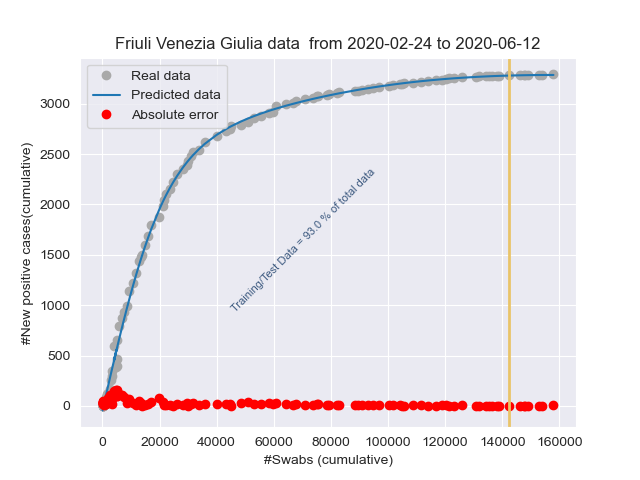
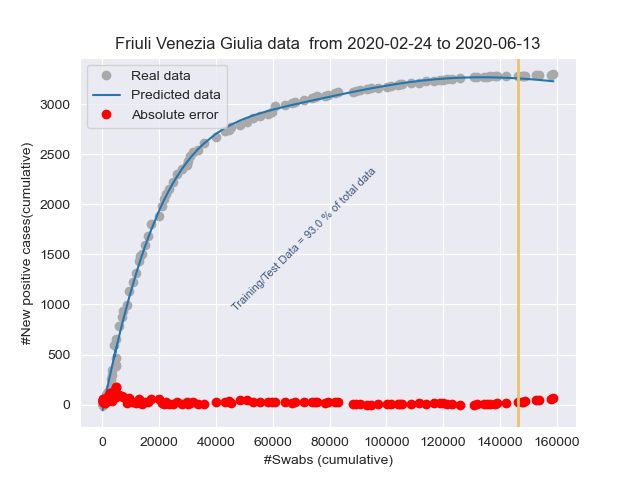
Add files via upload

diff --git a/stat_Friuli Venezia Giulia.html b/stat_Friuli Venezia Giulia.html
@@ -1,1 +1,1 @@
-<!DOCTYPE html><html lang="it"><head><title>Results</title><meta charset="utf-8"><meta name="viewport" content="width=device-width, initial-scale=1"><link rel="stylesheet" href="bootstrap.min.css"><script src="https://ajax.googleapis.com/ajax/libs/jquery/3.4.1/jquery.min.js"></script><script src="https://maxcdn.bootstrapcdn.com/bootstrap/3.4.1/js/bootstrap.min.js"></script></head><body><h3>Day: 2020-06-12</h3><p class="lead my-3">New positive cases: <b>3</b></p><p class="lead my-3">Variation of positive cases: <b>200.0%</b></p><p class="lead my-3">Number of swabs: <b>4146.0</b></p><p class="lead my-3">Variation of swabs: <b>2.7%</b></p><p class="lead my-3">Postive cases/Swabs: <b>0.07 %</b></p><p class="lead my-3">Number of people admitted to Intensive care: <b>0</b></p><p class="lead my-3">Number of recovered people: <b>7.0</b></p><p class="lead my-3">Number of dead people: <b>0.0</b></p><h3>Total</h3><p class="lead my-3">Population of  Friuli Venezia Giulia: <b>1215220</b> <a href="http://dati.istat.it/Index.aspx?QueryId=18548" target="_blank">ISTAT data</a></p><p class="lead my-3">Total number of positive cases from 2020-02-24 00:00:00 to 2020-06-12: <b> 3290</b></p><p class="lead my-3">Total number of swabs from 2020-02-24 00:00:00 to 2020-06-12: <b> 157909</b></p><p class="lead my-3">TotalSwabs/Population: <b> 12.99%</b></p></body></html>
+<!DOCTYPE html><html lang="it"><head><title>Results</title><meta charset="utf-8"><meta name="viewport" content="width=device-width, initial-scale=1"><link rel="stylesheet" href="bootstrap.min.css"><script src="https://ajax.googleapis.com/ajax/libs/jquery/3.4.1/jquery.min.js"></script><script src="https://maxcdn.bootstrapcdn.com/bootstrap/3.4.1/js/bootstrap.min.js"></script></head><body><h3>Day: 2020-06-13</h3><p class="lead my-3">New positive cases: <b>6</b></p><p class="lead my-3">Variation of positive cases: <b>100.0%</b></p><p class="lead my-3">Number of swabs: <b>961.0</b></p><p class="lead my-3">Variation of swabs: <b>0.61%</b></p><p class="lead my-3">Postive cases/Swabs: <b>0.62 %</b></p><p class="lead my-3">Number of people admitted to Intensive care: <b>0</b></p><p class="lead my-3">Number of recovered people: <b>8.0</b></p><p class="lead my-3">Number of dead people: <b>1.0</b></p><h3>Total</h3><p class="lead my-3">Population of  Friuli Venezia Giulia: <b>1215220</b> <a href="http://dati.istat.it/Index.aspx?QueryId=18548" target="_blank">ISTAT data</a></p><p class="lead my-3">Total number of positive cases from 2020-02-24 00:00:00 to 2020-06-13: <b> 3296</b></p><p class="lead my-3">Total number of swabs from 2020-02-24 00:00:00 to 2020-06-13: <b> 158870</b></p><p class="lead my-3">TotalSwabs/Population: <b> 13.07%</b></p></body></html>

diff --git a/stat_Emilia-Romagna.html b/stat_Emilia-Romagna.html
@@ -1,1 +1,1 @@
-<!DOCTYPE html><html lang="it"><head><title>Results</title><meta charset="utf-8"><meta name="viewport" content="width=device-width, initial-scale=1"><link rel="stylesheet" href="bootstrap.min.css"><script src="https://ajax.googleapis.com/ajax/libs/jquery/3.4.1/jquery.min.js"></script><script src="https://maxcdn.bootstrapcdn.com/bootstrap/3.4.1/js/bootstrap.min.js"></script></head><body><h3>Day: 2020-06-12</h3><p class="lead my-3">New positive cases: <b>33</b></p><p class="lead my-3">Variation of positive cases: <b>32.0%</b></p><p class="lead my-3">Number of swabs: <b>8319.0</b></p><p class="lead my-3">Variation of swabs: <b>2.16%</b></p><p class="lead my-3">Postive cases/Swabs: <b>0.4 %</b></p><p class="lead my-3">Number of people admitted to Intensive care: <b>17</b></p><p class="lead my-3">Number of recovered people: <b>212.0</b></p><p class="lead my-3">Number of dead people: <b>4.0</b></p><h3>Total</h3><p class="lead my-3">Population of  Emilia-Romagna: <b>4459477</b> <a href="http://dati.istat.it/Index.aspx?QueryId=18548" target="_blank">ISTAT data</a></p><p class="lead my-3">Total number of positive cases from 2020-02-24 00:00:00 to 2020-06-12: <b> 28028</b></p><p class="lead my-3">Total number of swabs from 2020-02-24 00:00:00 to 2020-06-12: <b> 393539</b></p><p class="lead my-3">TotalSwabs/Population: <b> 8.82%</b></p></body></html>
+<!DOCTYPE html><html lang="it"><head><title>Results</title><meta charset="utf-8"><meta name="viewport" content="width=device-width, initial-scale=1"><link rel="stylesheet" href="bootstrap.min.css"><script src="https://ajax.googleapis.com/ajax/libs/jquery/3.4.1/jquery.min.js"></script><script src="https://maxcdn.bootstrapcdn.com/bootstrap/3.4.1/js/bootstrap.min.js"></script></head><body><h3>Day: 2020-06-13</h3><p class="lead my-3">New positive cases: <b>28</b></p><p class="lead my-3">Variation of positive cases: <b>-15.15%</b></p><p class="lead my-3">Number of swabs: <b>7363.0</b></p><p class="lead my-3">Variation of swabs: <b>1.87%</b></p><p class="lead my-3">Postive cases/Swabs: <b>0.38 %</b></p><p class="lead my-3">Number of people admitted to Intensive care: <b>15</b></p><p class="lead my-3">Number of recovered people: <b>115.0</b></p><p class="lead my-3">Number of dead people: <b>3.0</b></p><h3>Total</h3><p class="lead my-3">Population of  Emilia-Romagna: <b>4459477</b> <a href="http://dati.istat.it/Index.aspx?QueryId=18548" target="_blank">ISTAT data</a></p><p class="lead my-3">Total number of positive cases from 2020-02-24 00:00:00 to 2020-06-13: <b> 28056</b></p><p class="lead my-3">Total number of swabs from 2020-02-24 00:00:00 to 2020-06-13: <b> 400902</b></p><p class="lead my-3">TotalSwabs/Population: <b> 8.99%</b></p></body></html>

diff --git a/stat_Italy.html b/stat_Italy.html
@@ -1,1 +1,1 @@
-<!DOCTYPE html><html lang="it"><head><title>Results</title><meta charset="utf-8"><meta name="viewport" content="width=device-width, initial-scale=1"><link rel="stylesheet" href="bootstrap.min.css"><script src="https://ajax.googleapis.com/ajax/libs/jquery/3.4.1/jquery.min.js"></script><script src="https://maxcdn.bootstrapcdn.com/bootstrap/3.4.1/js/bootstrap.min.js"></script></head><body><h3>Day: 2020-06-12</h3><p class="lead my-3">New positive cases: <b>163</b></p><p class="lead my-3">Variation of positive cases: <b>-56.99%</b></p><p class="lead my-3">Number of swabs: <b>70620.0</b></p><p class="lead my-3">Variation of swabs: <b>1.59%</b></p><p class="lead my-3">Postive cases/Swabs: <b>0.23 %</b></p><p class="lead my-3">Number of people admitted to Intensive care: <b>227</b></p><p class="lead my-3">Number of recovered people: <b>1747.0</b></p><p class="lead my-3">Number of dead people: <b>56.0</b></p><h3>Total</h3><p class="lead my-3">Population of  Italy: <b>60359546</b> <a href="http://dati.istat.it/Index.aspx?QueryId=18548" target="_blank">ISTAT data</a></p><p class="lead my-3">Total number of positive cases from 2020-02-24 00:00:00 to 2020-06-12: <b> 236297</b></p><p class="lead my-3">Total number of swabs from 2020-02-24 00:00:00 to 2020-06-12: <b> 4514441</b></p><p class="lead my-3">TotalSwabs/Population: <b> 7.48%</b></p></body></html>
+<!DOCTYPE html><html lang="it"><head><title>Results</title><meta charset="utf-8"><meta name="viewport" content="width=device-width, initial-scale=1"><link rel="stylesheet" href="bootstrap.min.css"><script src="https://ajax.googleapis.com/ajax/libs/jquery/3.4.1/jquery.min.js"></script><script src="https://maxcdn.bootstrapcdn.com/bootstrap/3.4.1/js/bootstrap.min.js"></script></head><body><h3>Day: 2020-06-13</h3><p class="lead my-3">New positive cases: <b>346</b></p><p class="lead my-3">Variation of positive cases: <b>112.27%</b></p><p class="lead my-3">Number of swabs: <b>49750.0</b></p><p class="lead my-3">Variation of swabs: <b>1.1%</b></p><p class="lead my-3">Postive cases/Swabs: <b>0.7 %</b></p><p class="lead my-3">Number of people admitted to Intensive care: <b>220</b></p><p class="lead my-3">Number of recovered people: <b>1780.0</b></p><p class="lead my-3">Number of dead people: <b>78.0</b></p><h3>Total</h3><p class="lead my-3">Population of  Italy: <b>60359546</b> <a href="http://dati.istat.it/Index.aspx?QueryId=18548" target="_blank">ISTAT data</a></p><p class="lead my-3">Total number of positive cases from 2020-02-24 00:00:00 to 2020-06-13: <b> 236643</b></p><p class="lead my-3">Total number of swabs from 2020-02-24 00:00:00 to 2020-06-13: <b> 4564191</b></p><p class="lead my-3">TotalSwabs/Population: <b> 7.56%</b></p></body></html>

diff --git a/stat_Lombardia.html b/stat_Lombardia.html
@@ -1,1 +1,1 @@
-<!DOCTYPE html><html lang="it"><head><title>Results</title><meta charset="utf-8"><meta name="viewport" content="width=device-width, initial-scale=1"><link rel="stylesheet" href="bootstrap.min.css"><script src="https://ajax.googleapis.com/ajax/libs/jquery/3.4.1/jquery.min.js"></script><script src="https://maxcdn.bootstrapcdn.com/bootstrap/3.4.1/js/bootstrap.min.js"></script></head><body><h3>Day: 2020-06-12</h3><p class="lead my-3">New positive cases: <b>272</b></p><p class="lead my-3">Variation of positive cases: <b>7.94%</b></p><p class="lead my-3">Number of swabs: <b>14837.0</b></p><p class="lead my-3">Variation of swabs: <b>1.73%</b></p><p class="lead my-3">Postive cases/Swabs: <b>1.83 %</b></p><p class="lead my-3">Number of people admitted to Intensive care: <b>97</b></p><p class="lead my-3">Number of recovered people: <b>557.0</b></p><p class="lead my-3">Number of dead people: <b>31.0</b></p><h3>Total</h3><p class="lead my-3">Population of  Lombardia: <b>10060574</b> <a href="http://dati.istat.it/Index.aspx?QueryId=18548" target="_blank">ISTAT data</a></p><p class="lead my-3">Total number of positive cases from 2020-02-24 00:00:00 to 2020-06-12: <b> 91198</b></p><p class="lead my-3">Total number of swabs from 2020-02-24 00:00:00 to 2020-06-12: <b> 873831</b></p><p class="lead my-3">TotalSwabs/Population: <b> 8.69%</b></p></body></html>
+<!DOCTYPE html><html lang="it"><head><title>Results</title><meta charset="utf-8"><meta name="viewport" content="width=device-width, initial-scale=1"><link rel="stylesheet" href="bootstrap.min.css"><script src="https://ajax.googleapis.com/ajax/libs/jquery/3.4.1/jquery.min.js"></script><script src="https://maxcdn.bootstrapcdn.com/bootstrap/3.4.1/js/bootstrap.min.js"></script></head><body><h3>Day: 2020-06-13</h3><p class="lead my-3">New positive cases: <b>210</b></p><p class="lead my-3">Variation of positive cases: <b>-22.79%</b></p><p class="lead my-3">Number of swabs: <b>9474.0</b></p><p class="lead my-3">Variation of swabs: <b>1.08%</b></p><p class="lead my-3">Postive cases/Swabs: <b>2.22 %</b></p><p class="lead my-3">Number of people admitted to Intensive care: <b>96</b></p><p class="lead my-3">Number of recovered people: <b>426.0</b></p><p class="lead my-3">Number of dead people: <b>23.0</b></p><h3>Total</h3><p class="lead my-3">Population of  Lombardia: <b>10060574</b> <a href="http://dati.istat.it/Index.aspx?QueryId=18548" target="_blank">ISTAT data</a></p><p class="lead my-3">Total number of positive cases from 2020-02-24 00:00:00 to 2020-06-13: <b> 91408</b></p><p class="lead my-3">Total number of swabs from 2020-02-24 00:00:00 to 2020-06-13: <b> 883305</b></p><p class="lead my-3">TotalSwabs/Population: <b> 8.78%</b></p></body></html>

diff --git a/stat_Piemonte.html b/stat_Piemonte.html
@@ -1,1 +1,1 @@
-<!DOCTYPE html><html lang="it"><head><title>Results</title><meta charset="utf-8"><meta name="viewport" content="width=device-width, initial-scale=1"><link rel="stylesheet" href="bootstrap.min.css"><script src="https://ajax.googleapis.com/ajax/libs/jquery/3.4.1/jquery.min.js"></script><script src="https://maxcdn.bootstrapcdn.com/bootstrap/3.4.1/js/bootstrap.min.js"></script></head><body><h3>Day: 2020-06-12</h3><p class="lead my-3">New positive cases: <b>31</b></p><p class="lead my-3">Variation of positive cases: <b>-26.19%</b></p><p class="lead my-3">Number of swabs: <b>3207.0</b></p><p class="lead my-3">Variation of swabs: <b>0.9%</b></p><p class="lead my-3">Postive cases/Swabs: <b>0.97 %</b></p><p class="lead my-3">Number of people admitted to Intensive care: <b>30</b></p><p class="lead my-3">Number of recovered people: <b>309.0</b></p><p class="lead my-3">Number of dead people: <b>8.0</b></p><h3>Total</h3><p class="lead my-3">Population of  Piemonte: <b>4356406</b> <a href="http://dati.istat.it/Index.aspx?QueryId=18548" target="_blank">ISTAT data</a></p><p class="lead my-3">Total number of positive cases from 2020-02-24 00:00:00 to 2020-06-12: <b> 30989</b></p><p class="lead my-3">Total number of swabs from 2020-02-24 00:00:00 to 2020-06-12: <b> 361164</b></p><p class="lead my-3">TotalSwabs/Population: <b> 8.29%</b></p></body></html>
+<!DOCTYPE html><html lang="it"><head><title>Results</title><meta charset="utf-8"><meta name="viewport" content="width=device-width, initial-scale=1"><link rel="stylesheet" href="bootstrap.min.css"><script src="https://ajax.googleapis.com/ajax/libs/jquery/3.4.1/jquery.min.js"></script><script src="https://maxcdn.bootstrapcdn.com/bootstrap/3.4.1/js/bootstrap.min.js"></script></head><body><h3>Day: 2020-06-13</h3><p class="lead my-3">New positive cases: <b>40</b></p><p class="lead my-3">Variation of positive cases: <b>29.03%</b></p><p class="lead my-3">Number of swabs: <b>4059.0</b></p><p class="lead my-3">Variation of swabs: <b>1.12%</b></p><p class="lead my-3">Postive cases/Swabs: <b>0.99 %</b></p><p class="lead my-3">Number of people admitted to Intensive care: <b>27</b></p><p class="lead my-3">Number of recovered people: <b>107.0</b></p><p class="lead my-3">Number of dead people: <b>10.0</b></p><h3>Total</h3><p class="lead my-3">Population of  Piemonte: <b>4356406</b> <a href="http://dati.istat.it/Index.aspx?QueryId=18548" target="_blank">ISTAT data</a></p><p class="lead my-3">Total number of positive cases from 2020-02-24 00:00:00 to 2020-06-13: <b> 31029</b></p><p class="lead my-3">Total number of swabs from 2020-02-24 00:00:00 to 2020-06-13: <b> 365223</b></p><p class="lead my-3">TotalSwabs/Population: <b> 8.38%</b></p></body></html>

diff --git a/stat_Campania.html b/stat_Campania.html
@@ -1,1 +1,1 @@
-<!DOCTYPE html><html lang="it"><head><title>Results</title><meta charset="utf-8"><meta name="viewport" content="width=device-width, initial-scale=1"><link rel="stylesheet" href="bootstrap.min.css"><script src="https://ajax.googleapis.com/ajax/libs/jquery/3.4.1/jquery.min.js"></script><script src="https://maxcdn.bootstrapcdn.com/bootstrap/3.4.1/js/bootstrap.min.js"></script></head><body><h3>Day: 2020-06-12</h3><p class="lead my-3">New positive cases: <b>-229</b></p><p class="lead my-3">Variation of positive cases: <b>-7733.33%</b></p><p class="lead my-3">Number of swabs: <b>3728.0</b></p><p class="lead my-3">Variation of swabs: <b>1.64%</b></p><p class="lead my-3">Postive cases/Swabs: <b>-6.14 %</b></p><p class="lead my-3">Number of people admitted to Intensive care: <b>2</b></p><p class="lead my-3">Number of recovered people: <b>35.0</b></p><p class="lead my-3">Number of dead people: <b>0.0</b></p><h3>Total</h3><p class="lead my-3">Population of  Campania: <b>5801692</b> <a href="http://dati.istat.it/Index.aspx?QueryId=18548" target="_blank">ISTAT data</a></p><p class="lead my-3">Total number of positive cases from 2020-02-24 00:00:00 to 2020-06-12: <b> 4608</b></p><p class="lead my-3">Total number of swabs from 2020-02-24 00:00:00 to 2020-06-12: <b> 230551</b></p><p class="lead my-3">TotalSwabs/Population: <b> 3.97%</b></p></body></html>
+<!DOCTYPE html><html lang="it"><head><title>Results</title><meta charset="utf-8"><meta name="viewport" content="width=device-width, initial-scale=1"><link rel="stylesheet" href="bootstrap.min.css"><script src="https://ajax.googleapis.com/ajax/libs/jquery/3.4.1/jquery.min.js"></script><script src="https://maxcdn.bootstrapcdn.com/bootstrap/3.4.1/js/bootstrap.min.js"></script></head><body><h3>Day: 2020-06-13</h3><p class="lead my-3">New positive cases: <b>0</b></p><p class="lead my-3">Variation of positive cases: <b>-100.0%</b></p><p class="lead my-3">Number of swabs: <b>4115.0</b></p><p class="lead my-3">Variation of swabs: <b>1.78%</b></p><p class="lead my-3">Postive cases/Swabs: <b>0.0 %</b></p><p class="lead my-3">Number of people admitted to Intensive care: <b>2</b></p><p class="lead my-3">Number of recovered people: <b>9.0</b></p><p class="lead my-3">Number of dead people: <b>0.0</b></p><h3>Total</h3><p class="lead my-3">Population of  Campania: <b>5801692</b> <a href="http://dati.istat.it/Index.aspx?QueryId=18548" target="_blank">ISTAT data</a></p><p class="lead my-3">Total number of positive cases from 2020-02-24 00:00:00 to 2020-06-13: <b> 4608</b></p><p class="lead my-3">Total number of swabs from 2020-02-24 00:00:00 to 2020-06-13: <b> 234666</b></p><p class="lead my-3">TotalSwabs/Population: <b> 4.04%</b></p></body></html>

diff --git a/stat_P.A. Trento.html b/stat_P.A. Trento.html
@@ -1,1 +1,1 @@
-<!DOCTYPE html><html lang="it"><head><title>Results</title><meta charset="utf-8"><meta name="viewport" content="width=device-width, initial-scale=1"><link rel="stylesheet" href="bootstrap.min.css"><script src="https://ajax.googleapis.com/ajax/libs/jquery/3.4.1/jquery.min.js"></script><script src="https://maxcdn.bootstrapcdn.com/bootstrap/3.4.1/js/bootstrap.min.js"></script></head><body><h3>Day: 2020-06-12</h3><p class="lead my-3">New positive cases: <b>2</b></p><p class="lead my-3">Variation of positive cases: <b>0.0%</b></p><p class="lead my-3">Number of swabs: <b>1431.0</b></p><p class="lead my-3">Variation of swabs: <b>1.45%</b></p><p class="lead my-3">Postive cases/Swabs: <b>0.14 %</b></p><p class="lead my-3">Number of people admitted to Intensive care: <b>1</b></p><p class="lead my-3">Number of recovered people: <b>5.0</b></p><p class="lead my-3">Number of dead people: <b>0.0</b></p><h3>Total</h3><p class="lead my-3">Population of  P.A. Trento: <b>541098</b> <a href="http://dati.istat.it/Index.aspx?QueryId=18548" target="_blank">ISTAT data</a></p><p class="lead my-3">Total number of positive cases from 2020-02-24 00:00:00 to 2020-06-12: <b> 4443</b></p><p class="lead my-3">Total number of swabs from 2020-02-24 00:00:00 to 2020-06-12: <b> 100400</b></p><p class="lead my-3">TotalSwabs/Population: <b> 18.55%</b></p></body></html>
+<!DOCTYPE html><html lang="it"><head><title>Results</title><meta charset="utf-8"><meta name="viewport" content="width=device-width, initial-scale=1"><link rel="stylesheet" href="bootstrap.min.css"><script src="https://ajax.googleapis.com/ajax/libs/jquery/3.4.1/jquery.min.js"></script><script src="https://maxcdn.bootstrapcdn.com/bootstrap/3.4.1/js/bootstrap.min.js"></script></head><body><h3>Day: 2020-06-13</h3><p class="lead my-3">New positive cases: <b>3</b></p><p class="lead my-3">Variation of positive cases: <b>50.0%</b></p><p class="lead my-3">Number of swabs: <b>1738.0</b></p><p class="lead my-3">Variation of swabs: <b>1.73%</b></p><p class="lead my-3">Postive cases/Swabs: <b>0.17 %</b></p><p class="lead my-3">Number of people admitted to Intensive care: <b>1</b></p><p class="lead my-3">Number of recovered people: <b>1.0</b></p><p class="lead my-3">Number of dead people: <b>0.0</b></p><h3>Total</h3><p class="lead my-3">Population of  P.A. Trento: <b>541098</b> <a href="http://dati.istat.it/Index.aspx?QueryId=18548" target="_blank">ISTAT data</a></p><p class="lead my-3">Total number of positive cases from 2020-02-24 00:00:00 to 2020-06-13: <b> 4446</b></p><p class="lead my-3">Total number of swabs from 2020-02-24 00:00:00 to 2020-06-13: <b> 102138</b></p><p class="lead my-3">TotalSwabs/Population: <b> 18.88%</b></p></body></html>

diff --git a/stat_Toscana.html b/stat_Toscana.html
@@ -1,1 +1,1 @@
-<!DOCTYPE html><html lang="it"><head><title>Results</title><meta charset="utf-8"><meta name="viewport" content="width=device-width, initial-scale=1"><link rel="stylesheet" href="bootstrap.min.css"><script src="https://ajax.googleapis.com/ajax/libs/jquery/3.4.1/jquery.min.js"></script><script src="https://maxcdn.bootstrapcdn.com/bootstrap/3.4.1/js/bootstrap.min.js"></script></head><body><h3>Day: 2020-06-12</h3><p class="lead my-3">New positive cases: <b>7</b></p><p class="lead my-3">Variation of positive cases: <b>-30.0%</b></p><p class="lead my-3">Number of swabs: <b>3055.0</b></p><p class="lead my-3">Variation of swabs: <b>1.08%</b></p><p class="lead my-3">Postive cases/Swabs: <b>0.23 %</b></p><p class="lead my-3">Number of people admitted to Intensive care: <b>14</b></p><p class="lead my-3">Number of recovered people: <b>17.0</b></p><p class="lead my-3">Number of dead people: <b>1.0</b></p><h3>Total</h3><p class="lead my-3">Population of  Toscana: <b>3729641</b> <a href="http://dati.istat.it/Index.aspx?QueryId=18548" target="_blank">ISTAT data</a></p><p class="lead my-3">Total number of positive cases from 2020-02-24 00:00:00 to 2020-06-12: <b> 10165</b></p><p class="lead my-3">Total number of swabs from 2020-02-24 00:00:00 to 2020-06-12: <b> 286693</b></p><p class="lead my-3">TotalSwabs/Population: <b> 7.69%</b></p></body></html>
+<!DOCTYPE html><html lang="it"><head><title>Results</title><meta charset="utf-8"><meta name="viewport" content="width=device-width, initial-scale=1"><link rel="stylesheet" href="bootstrap.min.css"><script src="https://ajax.googleapis.com/ajax/libs/jquery/3.4.1/jquery.min.js"></script><script src="https://maxcdn.bootstrapcdn.com/bootstrap/3.4.1/js/bootstrap.min.js"></script></head><body><h3>Day: 2020-06-13</h3><p class="lead my-3">New positive cases: <b>7</b></p><p class="lead my-3">Variation of positive cases: <b>0.0%</b></p><p class="lead my-3">Number of swabs: <b>2831.0</b></p><p class="lead my-3">Variation of swabs: <b>0.99%</b></p><p class="lead my-3">Postive cases/Swabs: <b>0.25 %</b></p><p class="lead my-3">Number of people admitted to Intensive care: <b>16</b></p><p class="lead my-3">Number of recovered people: <b>13.0</b></p><p class="lead my-3">Number of dead people: <b>2.0</b></p><h3>Total</h3><p class="lead my-3">Population of  Toscana: <b>3729641</b> <a href="http://dati.istat.it/Index.aspx?QueryId=18548" target="_blank">ISTAT data</a></p><p class="lead my-3">Total number of positive cases from 2020-02-24 00:00:00 to 2020-06-13: <b> 10172</b></p><p class="lead my-3">Total number of swabs from 2020-02-24 00:00:00 to 2020-06-13: <b> 289524</b></p><p class="lead my-3">TotalSwabs/Population: <b> 7.76%</b></p></body></html>

diff --git a/stat_Veneto.html b/stat_Veneto.html
@@ -1,1 +1,1 @@
-<!DOCTYPE html><html lang="it"><head><title>Results</title><meta charset="utf-8"><meta name="viewport" content="width=device-width, initial-scale=1"><link rel="stylesheet" href="bootstrap.min.css"><script src="https://ajax.googleapis.com/ajax/libs/jquery/3.4.1/jquery.min.js"></script><script src="https://maxcdn.bootstrapcdn.com/bootstrap/3.4.1/js/bootstrap.min.js"></script></head><body><h3>Day: 2020-06-12</h3><p class="lead my-3">New positive cases: <b>0</b></p><p class="lead my-3">Variation of positive cases: <b>-100.0%</b></p><p class="lead my-3">Number of swabs: <b>14815.0</b></p><p class="lead my-3">Variation of swabs: <b>1.9%</b></p><p class="lead my-3">Postive cases/Swabs: <b>0.0 %</b></p><p class="lead my-3">Number of people admitted to Intensive care: <b>0</b></p><p class="lead my-3">Number of recovered people: <b>70.0</b></p><p class="lead my-3">Number of dead people: <b>3.0</b></p><h3>Total</h3><p class="lead my-3">Population of  Veneto: <b>4905854</b> <a href="http://dati.istat.it/Index.aspx?QueryId=18548" target="_blank">ISTAT data</a></p><p class="lead my-3">Total number of positive cases from 2020-02-24 00:00:00 to 2020-06-12: <b> 19198</b></p><p class="lead my-3">Total number of swabs from 2020-02-24 00:00:00 to 2020-06-12: <b> 795260</b></p><p class="lead my-3">TotalSwabs/Population: <b> 16.21%</b></p></body></html>
+<!DOCTYPE html><html lang="it"><head><title>Results</title><meta charset="utf-8"><meta name="viewport" content="width=device-width, initial-scale=1"><link rel="stylesheet" href="bootstrap.min.css"><script src="https://ajax.googleapis.com/ajax/libs/jquery/3.4.1/jquery.min.js"></script><script src="https://maxcdn.bootstrapcdn.com/bootstrap/3.4.1/js/bootstrap.min.js"></script></head><body><h3>Day: 2020-06-13</h3><p class="lead my-3">New positive cases: <b>13</b></p><p class="lead my-3">Variation of positive cases: <b>inf%</b></p><p class="lead my-3">Number of swabs: <b>3030.0</b></p><p class="lead my-3">Variation of swabs: <b>0.38%</b></p><p class="lead my-3">Postive cases/Swabs: <b>0.43 %</b></p><p class="lead my-3">Number of people admitted to Intensive care: <b>1</b></p><p class="lead my-3">Number of recovered people: <b>74.0</b></p><p class="lead my-3">Number of dead people: <b>10.0</b></p><h3>Total</h3><p class="lead my-3">Population of  Veneto: <b>4905854</b> <a href="http://dati.istat.it/Index.aspx?QueryId=18548" target="_blank">ISTAT data</a></p><p class="lead my-3">Total number of positive cases from 2020-02-24 00:00:00 to 2020-06-13: <b> 19211</b></p><p class="lead my-3">Total number of swabs from 2020-02-24 00:00:00 to 2020-06-13: <b> 798290</b></p><p class="lead my-3">TotalSwabs/Population: <b> 16.27%</b></p></body></html>

diff --git a/stat_Lazio.html b/stat_Lazio.html
@@ -1,1 +1,1 @@
-<!DOCTYPE html><html lang="it"><head><title>Results</title><meta charset="utf-8"><meta name="viewport" content="width=device-width, initial-scale=1"><link rel="stylesheet" href="bootstrap.min.css"><script src="https://ajax.googleapis.com/ajax/libs/jquery/3.4.1/jquery.min.js"></script><script src="https://maxcdn.bootstrapcdn.com/bootstrap/3.4.1/js/bootstrap.min.js"></script></head><body><h3>Day: 2020-06-12</h3><p class="lead my-3">New positive cases: <b>27</b></p><p class="lead my-3">Variation of positive cases: <b>35.0%</b></p><p class="lead my-3">Number of swabs: <b>3981.0</b></p><p class="lead my-3">Variation of swabs: <b>1.38%</b></p><p class="lead my-3">Postive cases/Swabs: <b>0.68 %</b></p><p class="lead my-3">Number of people admitted to Intensive care: <b>47</b></p><p class="lead my-3">Number of recovered people: <b>317.0</b></p><p class="lead my-3">Number of dead people: <b>5.0</b></p><h3>Total</h3><p class="lead my-3">Population of  Lazio: <b>5879082</b> <a href="http://dati.istat.it/Index.aspx?QueryId=18548" target="_blank">ISTAT data</a></p><p class="lead my-3">Total number of positive cases from 2020-02-24 00:00:00 to 2020-06-12: <b> 7915</b></p><p class="lead my-3">Total number of swabs from 2020-02-24 00:00:00 to 2020-06-12: <b> 291869</b></p><p class="lead my-3">TotalSwabs/Population: <b> 4.96%</b></p></body></html>
+<!DOCTYPE html><html lang="it"><head><title>Results</title><meta charset="utf-8"><meta name="viewport" content="width=device-width, initial-scale=1"><link rel="stylesheet" href="bootstrap.min.css"><script src="https://ajax.googleapis.com/ajax/libs/jquery/3.4.1/jquery.min.js"></script><script src="https://maxcdn.bootstrapcdn.com/bootstrap/3.4.1/js/bootstrap.min.js"></script></head><body><h3>Day: 2020-06-13</h3><p class="lead my-3">New positive cases: <b>25</b></p><p class="lead my-3">Variation of positive cases: <b>-7.41%</b></p><p class="lead my-3">Number of swabs: <b>2785.0</b></p><p class="lead my-3">Variation of swabs: <b>0.95%</b></p><p class="lead my-3">Postive cases/Swabs: <b>0.9 %</b></p><p class="lead my-3">Number of people admitted to Intensive care: <b>45</b></p><p class="lead my-3">Number of recovered people: <b>865.0</b></p><p class="lead my-3">Number of dead people: <b>25.0</b></p><h3>Total</h3><p class="lead my-3">Population of  Lazio: <b>5879082</b> <a href="http://dati.istat.it/Index.aspx?QueryId=18548" target="_blank">ISTAT data</a></p><p class="lead my-3">Total number of positive cases from 2020-02-24 00:00:00 to 2020-06-13: <b> 7940</b></p><p class="lead my-3">Total number of swabs from 2020-02-24 00:00:00 to 2020-06-13: <b> 294654</b></p><p class="lead my-3">TotalSwabs/Population: <b> 5.01%</b></p></body></html>

diff --git a/stat_P.A. Bolzano.html b/stat_P.A. Bolzano.html
@@ -1,1 +1,1 @@
-<!DOCTYPE html><html lang="it"><head><title>Results</title><meta charset="utf-8"><meta name="viewport" content="width=device-width, initial-scale=1"><link rel="stylesheet" href="bootstrap.min.css"><script src="https://ajax.googleapis.com/ajax/libs/jquery/3.4.1/jquery.min.js"></script><script src="https://maxcdn.bootstrapcdn.com/bootstrap/3.4.1/js/bootstrap.min.js"></script></head><body><h3>Day: 2020-06-12</h3><p class="lead my-3">New positive cases: <b>2</b></p><p class="lead my-3">Variation of positive cases: <b>0.0%</b></p><p class="lead my-3">Number of swabs: <b>753.0</b></p><p class="lead my-3">Variation of swabs: <b>1.02%</b></p><p class="lead my-3">Postive cases/Swabs: <b>0.27 %</b></p><p class="lead my-3">Number of people admitted to Intensive care: <b>2</b></p><p class="lead my-3">Number of recovered people: <b>1.0</b></p><p class="lead my-3">Number of dead people: <b>-1.0</b></p><h3>Total</h3><p class="lead my-3">Population of  P.A. Bolzano: <b>531178</b> <a href="http://dati.istat.it/Index.aspx?QueryId=18548" target="_blank">ISTAT data</a></p><p class="lead my-3">Total number of positive cases from 2020-02-24 00:00:00 to 2020-06-12: <b> 2608</b></p><p class="lead my-3">Total number of swabs from 2020-02-24 00:00:00 to 2020-06-12: <b> 74859</b></p><p class="lead my-3">TotalSwabs/Population: <b> 14.09%</b></p></body></html>
+<!DOCTYPE html><html lang="it"><head><title>Results</title><meta charset="utf-8"><meta name="viewport" content="width=device-width, initial-scale=1"><link rel="stylesheet" href="bootstrap.min.css"><script src="https://ajax.googleapis.com/ajax/libs/jquery/3.4.1/jquery.min.js"></script><script src="https://maxcdn.bootstrapcdn.com/bootstrap/3.4.1/js/bootstrap.min.js"></script></head><body><h3>Day: 2020-06-13</h3><p class="lead my-3">New positive cases: <b>2</b></p><p class="lead my-3">Variation of positive cases: <b>0.0%</b></p><p class="lead my-3">Number of swabs: <b>876.0</b></p><p class="lead my-3">Variation of swabs: <b>1.17%</b></p><p class="lead my-3">Postive cases/Swabs: <b>0.23 %</b></p><p class="lead my-3">Number of people admitted to Intensive care: <b>2</b></p><p class="lead my-3">Number of recovered people: <b>8.0</b></p><p class="lead my-3">Number of dead people: <b>0.0</b></p><h3>Total</h3><p class="lead my-3">Population of  P.A. Bolzano: <b>531178</b> <a href="http://dati.istat.it/Index.aspx?QueryId=18548" target="_blank">ISTAT data</a></p><p class="lead my-3">Total number of positive cases from 2020-02-24 00:00:00 to 2020-06-13: <b> 2610</b></p><p class="lead my-3">Total number of swabs from 2020-02-24 00:00:00 to 2020-06-13: <b> 75735</b></p><p class="lead my-3">TotalSwabs/Population: <b> 14.26%</b></p></body></html>

diff --git a/stat_Liguria.html b/stat_Liguria.html
@@ -1,1 +1,1 @@
-<!DOCTYPE html><html lang="it"><head><title>Results</title><meta charset="utf-8"><meta name="viewport" content="width=device-width, initial-scale=1"><link rel="stylesheet" href="bootstrap.min.css"><script src="https://ajax.googleapis.com/ajax/libs/jquery/3.4.1/jquery.min.js"></script><script src="https://maxcdn.bootstrapcdn.com/bootstrap/3.4.1/js/bootstrap.min.js"></script></head><body><h3>Day: 2020-06-12</h3><p class="lead my-3">New positive cases: <b>7</b></p><p class="lead my-3">Variation of positive cases: <b>-30.0%</b></p><p class="lead my-3">Number of swabs: <b>1666.0</b></p><p class="lead my-3">Variation of swabs: <b>1.36%</b></p><p class="lead my-3">Postive cases/Swabs: <b>0.42 %</b></p><p class="lead my-3">Number of people admitted to Intensive care: <b>3</b></p><p class="lead my-3">Number of recovered people: <b>6.0</b></p><p class="lead my-3">Number of dead people: <b>2.0</b></p><h3>Total</h3><p class="lead my-3">Population of  Liguria: <b>1550640</b> <a href="http://dati.istat.it/Index.aspx?QueryId=18548" target="_blank">ISTAT data</a></p><p class="lead my-3">Total number of positive cases from 2020-02-24 00:00:00 to 2020-06-12: <b> 9871</b></p><p class="lead my-3">Total number of swabs from 2020-02-24 00:00:00 to 2020-06-12: <b> 124320</b></p><p class="lead my-3">TotalSwabs/Population: <b> 8.02%</b></p></body></html>
+<!DOCTYPE html><html lang="it"><head><title>Results</title><meta charset="utf-8"><meta name="viewport" content="width=device-width, initial-scale=1"><link rel="stylesheet" href="bootstrap.min.css"><script src="https://ajax.googleapis.com/ajax/libs/jquery/3.4.1/jquery.min.js"></script><script src="https://maxcdn.bootstrapcdn.com/bootstrap/3.4.1/js/bootstrap.min.js"></script></head><body><h3>Day: 2020-06-13</h3><p class="lead my-3">New positive cases: <b>4</b></p><p class="lead my-3">Variation of positive cases: <b>-42.86%</b></p><p class="lead my-3">Number of swabs: <b>1551.0</b></p><p class="lead my-3">Variation of swabs: <b>1.25%</b></p><p class="lead my-3">Postive cases/Swabs: <b>0.26 %</b></p><p class="lead my-3">Number of people admitted to Intensive care: <b>3</b></p><p class="lead my-3">Number of recovered people: <b>7.0</b></p><p class="lead my-3">Number of dead people: <b>2.0</b></p><h3>Total</h3><p class="lead my-3">Population of  Liguria: <b>1550640</b> <a href="http://dati.istat.it/Index.aspx?QueryId=18548" target="_blank">ISTAT data</a></p><p class="lead my-3">Total number of positive cases from 2020-02-24 00:00:00 to 2020-06-13: <b> 9875</b></p><p class="lead my-3">Total number of swabs from 2020-02-24 00:00:00 to 2020-06-13: <b> 125871</b></p><p class="lead my-3">TotalSwabs/Population: <b> 8.12%</b></p></body></html>
